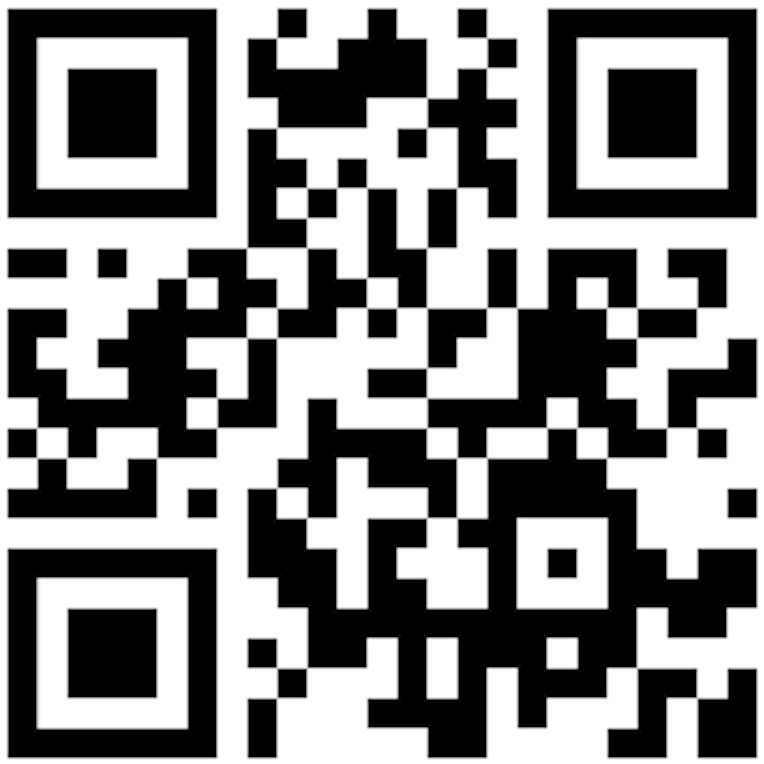
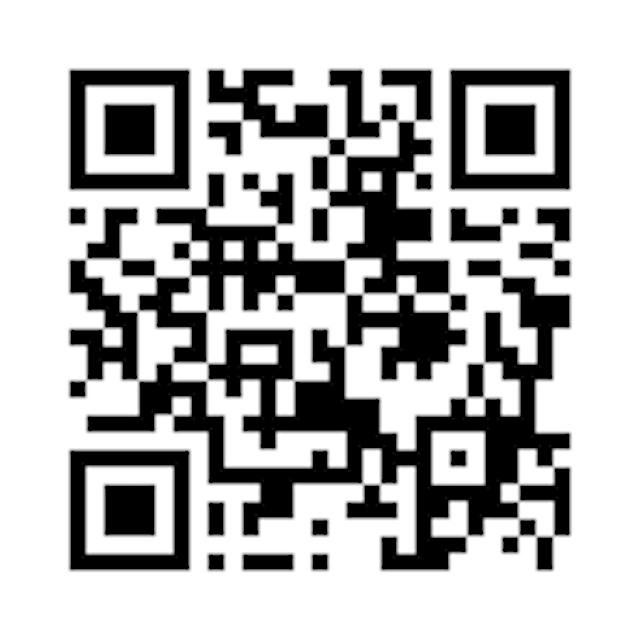
changes after testing qr, didnt worked, changed provider

diff --git a/eng-slides.html b/eng-slides.html
@@ -733,7 +733,7 @@
 <div class="cell-output cell-output-display">
 
 <div>
-    <vizzu-player id="bf92952" controller=""></vizzu-player>
+    <vizzu-player id="4e6f309" controller=""></vizzu-player>
     <script type="module">
         import VizzuPlayer from "https://cdn.jsdelivr.net/npm/vizzu-story@0.7/dist/vizzu-story.min.js";
 
@@ -814,7 +814,7 @@
             }
         }
 
-        const vp = document.getElementById("bf92952");
+        const vp = document.getElementById("4e6f309");
         vp.initializing.then(chart => {
             const lib = vp.Vizzu;
 
@@ -839,7 +839,7 @@
 </div>
 </div>
 <aside class="notes">
-<p>Now, let me share a JS &amp; python library to do data storytelling. This is an example that I created yesteday, based on wikipedia and the numbers shared by Marietta on the pycon opening. As we can see, the attendance numbers were rising until covid hit. But how is in-person versus onsite attendance? [click] It seems that online attendance is decreasing, so let’s explore this as a percentage. [click] Well, it seems to be true. Who can blame them? It’s much better to be onsite!</p>
+<p>Now, let me share a JS &amp; python library to do data storytelling. This is an example that I created yesteday, based on wikipedia and the numbers shared by Mariata on the pycon opening. As we can see, the attendance numbers were rising until covid hit. But how is in-person versus onsite attendance? [click] It seems that online attendance is decreasing, so let’s explore this as a percentage. [click] Well, it seems to be true. Who can blame them? It’s much better to be onsite!</p>
 <style type="text/css">
         span.MJX_Assistive_MathML {
           position:absolute!important;
@@ -1320,7 +1320,7 @@ format:
 <div class="column" style="width:10%;">
 
 </div><div class="column" style="width:40%;">
-<p><img data-src="images/survey/QR_code_english.png" data-fig-align="center"> https://tally.so/r/3NAPeb</p>
+<p><img data-src="images/survey/QR_code_english.png" data-fig-align="center"> https://tinyurl.com/ycxj9ep5</p>
 </div><div class="column" style="width:40%;">
 <p><img data-src="images/seba_avatar_gmail.png" data-fig-align="center"> <span style="text-align: center;">Thank you!</span></p>
 </div>
@@ -1353,7 +1353,7 @@ format:
 <li>Made to Stick, Chip Heath and Dan Heath</li>
 </ul>
 </div><div class="column" style="width:30%;">
-<p><img data-src="images/survey/QR_code_english.png" data-fig-align="center"> <span style="font-size: 0.75em; text-align: center;">https://tally.so/r/3NAPeb</span></p>
+<p><img data-src="images/survey/QR_code_english.png" data-fig-align="center"> <span style="font-size: 0.75em; text-align: center;">https://tinyurl.com/ycxj9ep5</span></p>
 </div>
 </div>
 <aside class="notes">
@@ -1381,7 +1381,7 @@ format:
 <li>Data Visualization &amp; Storytelling, Jose Berengueres and Marybeth Sandell</li>
 </ul>
 </div><div class="column" style="width:30%;">
-<p><img data-src="images/survey/QR_code_english.png" data-fig-align="center"> <span style="font-size: 0.75em; text-align: center;">https://tally.so/r/3NAPeb</span></p>
+<p><img data-src="images/survey/QR_code_english.png" data-fig-align="center"> <span style="font-size: 0.75em; text-align: center;">https://tinyurl.com/ycxj9ep5</span></p>
 </div>
 </div>
 <aside class="notes">
@@ -1404,7 +1404,7 @@ format:
 <div class="column" style="width:10%;">
 
 </div><div class="column" style="width:40%;">
-<p><img data-src="images/survey/QR_code_english.png" data-fig-align="center"> https://tally.so/r/3NAPeb</p>
+<p><img data-src="images/survey/QR_code_english.png" data-fig-align="center"> https://tinyurl.com/ycxj9ep5</p>
 </div><div class="column" style="width:40%;">
 <p><img data-src="images/seba_avatar_gmail.png" data-fig-align="center"> <span style="text-align: center;">¡Gracias!</span></p>
 </div>
